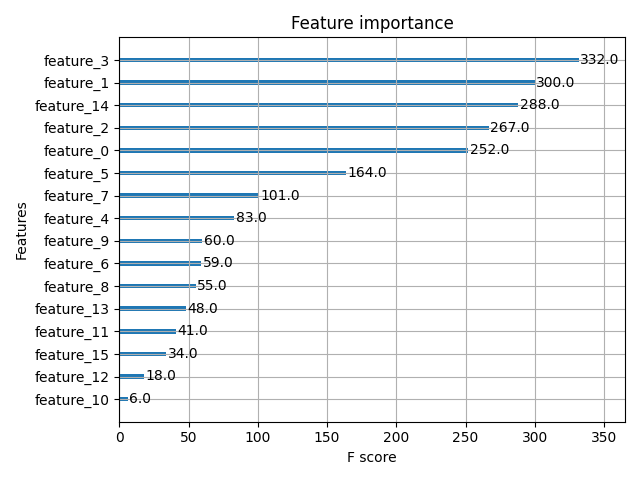
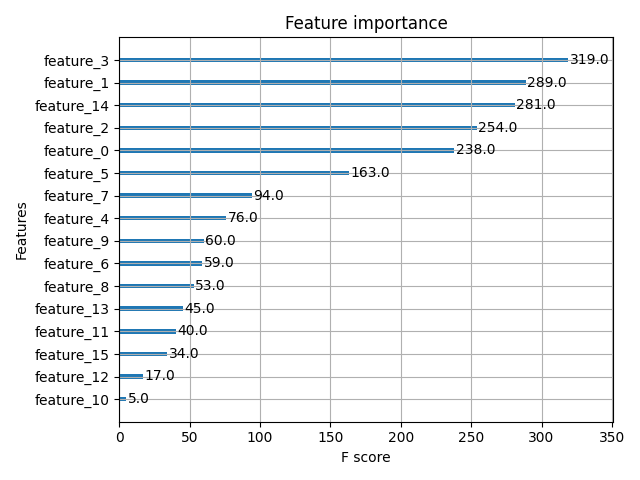
change n estimators

diff --git a/01_training.py b/01_training.py
@@ -19,7 +19,7 @@ def main() -> None:
     logging.info("Training")
     model = xgb.XGBClassifier(
         random_state=0,
-        n_estimators=200,
+        n_estimators=50,
         early_stopping_rounds=20,
     )
 
